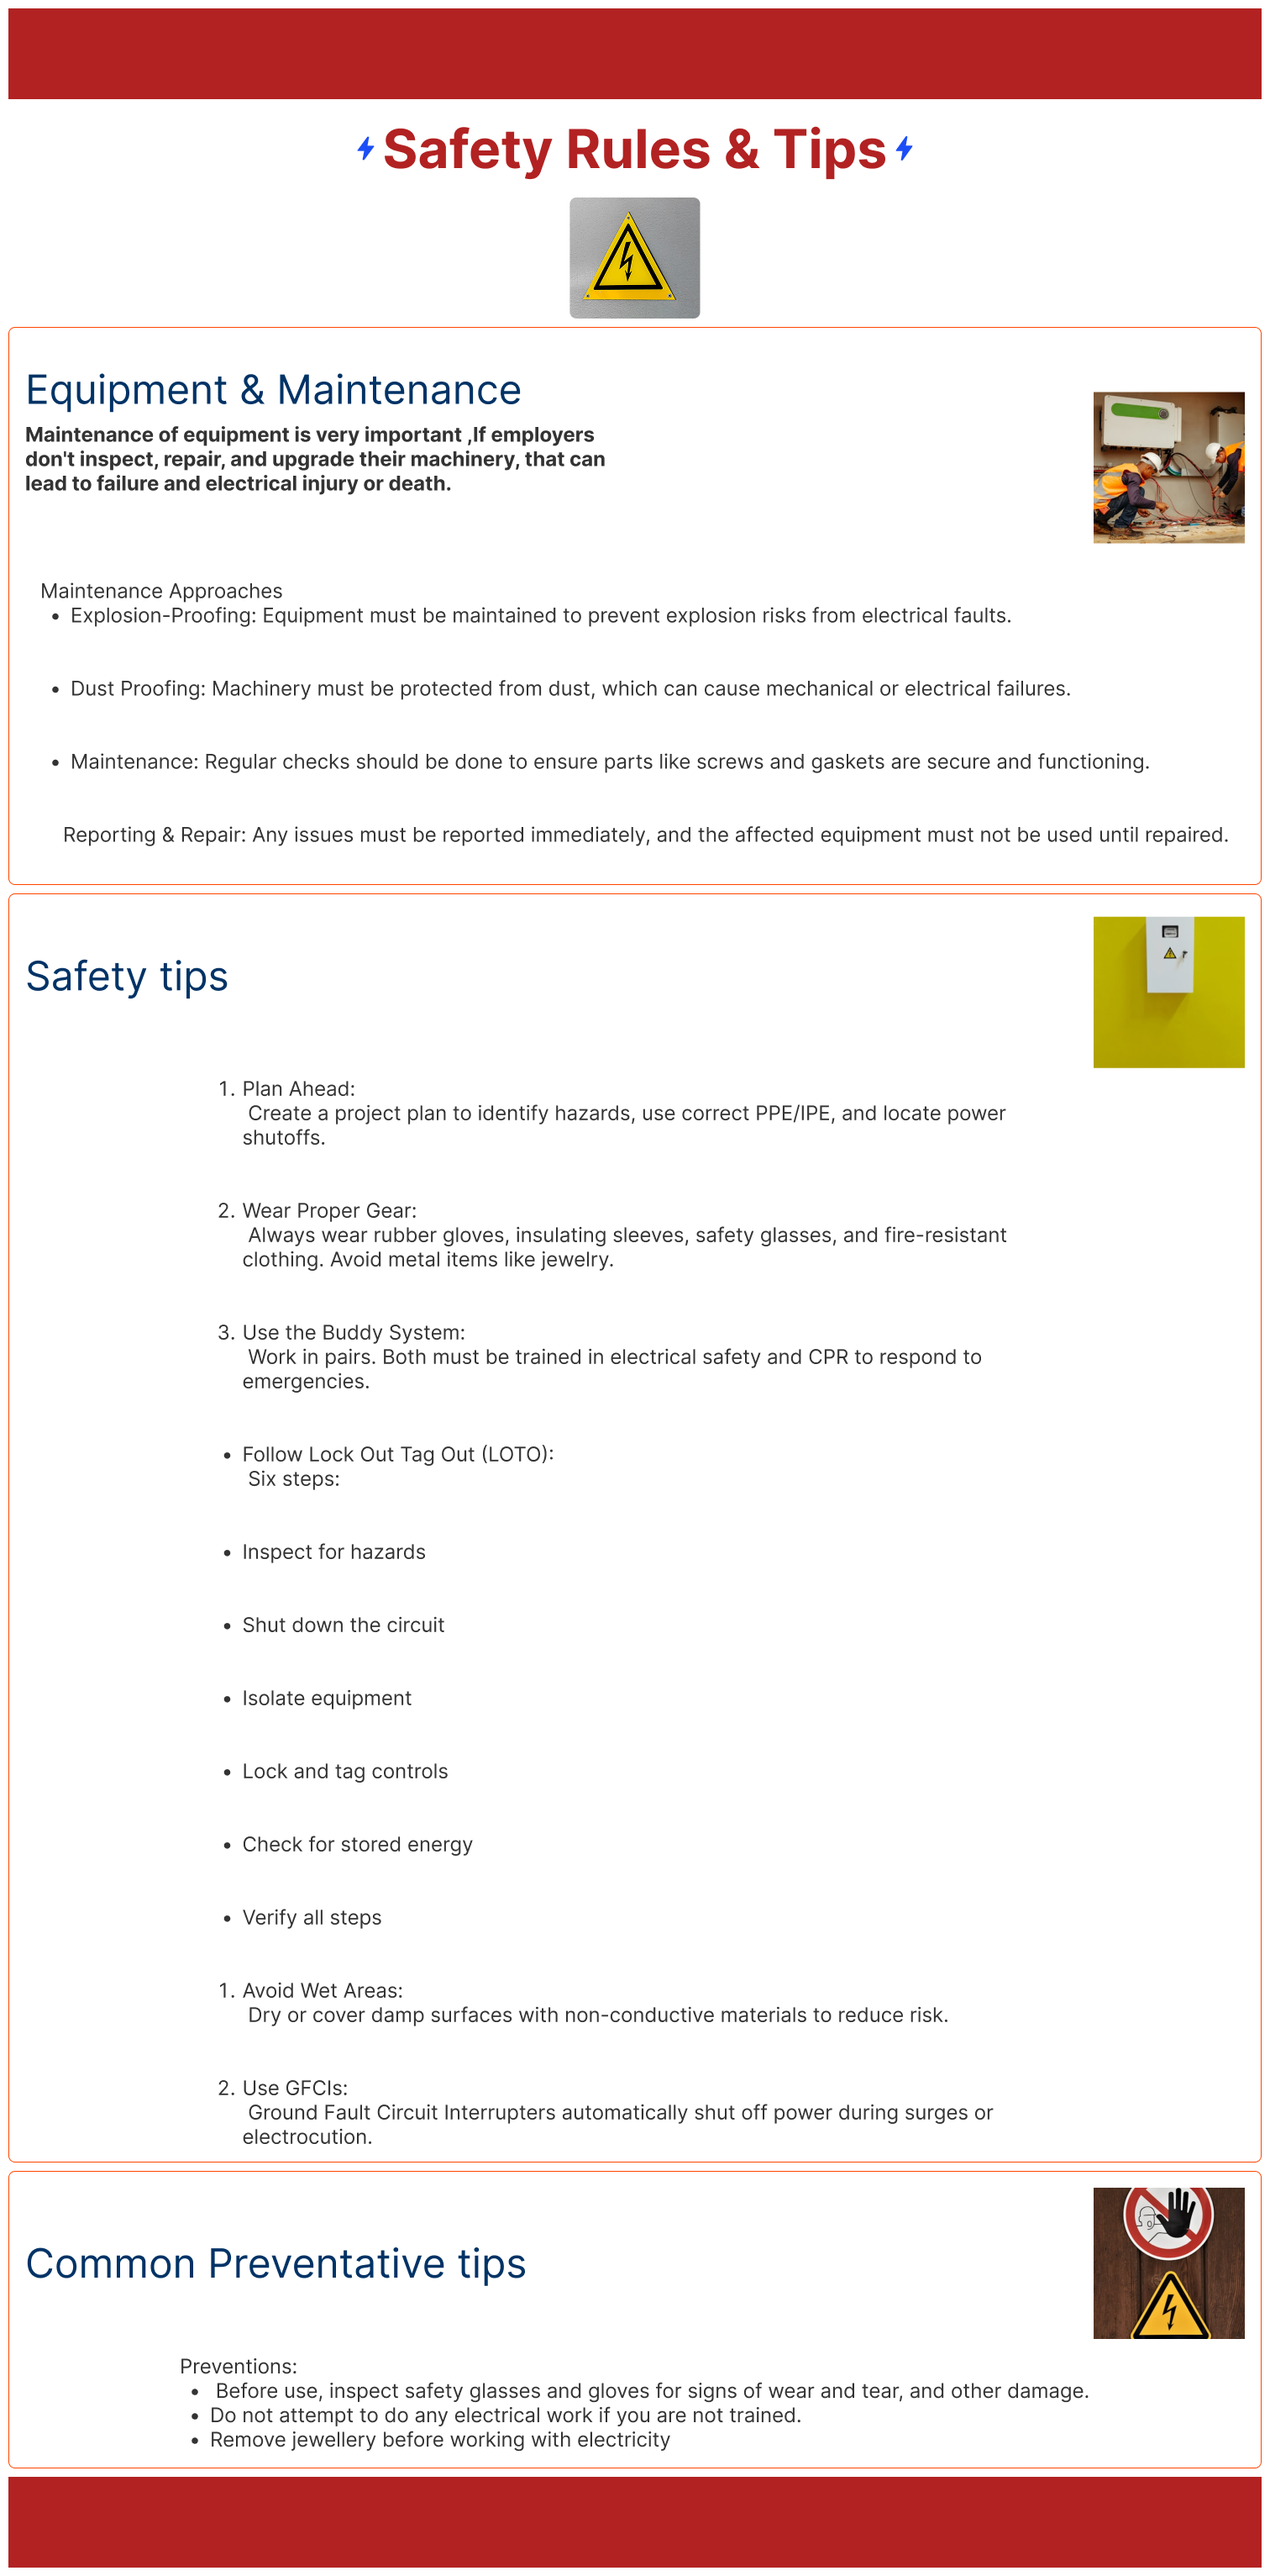
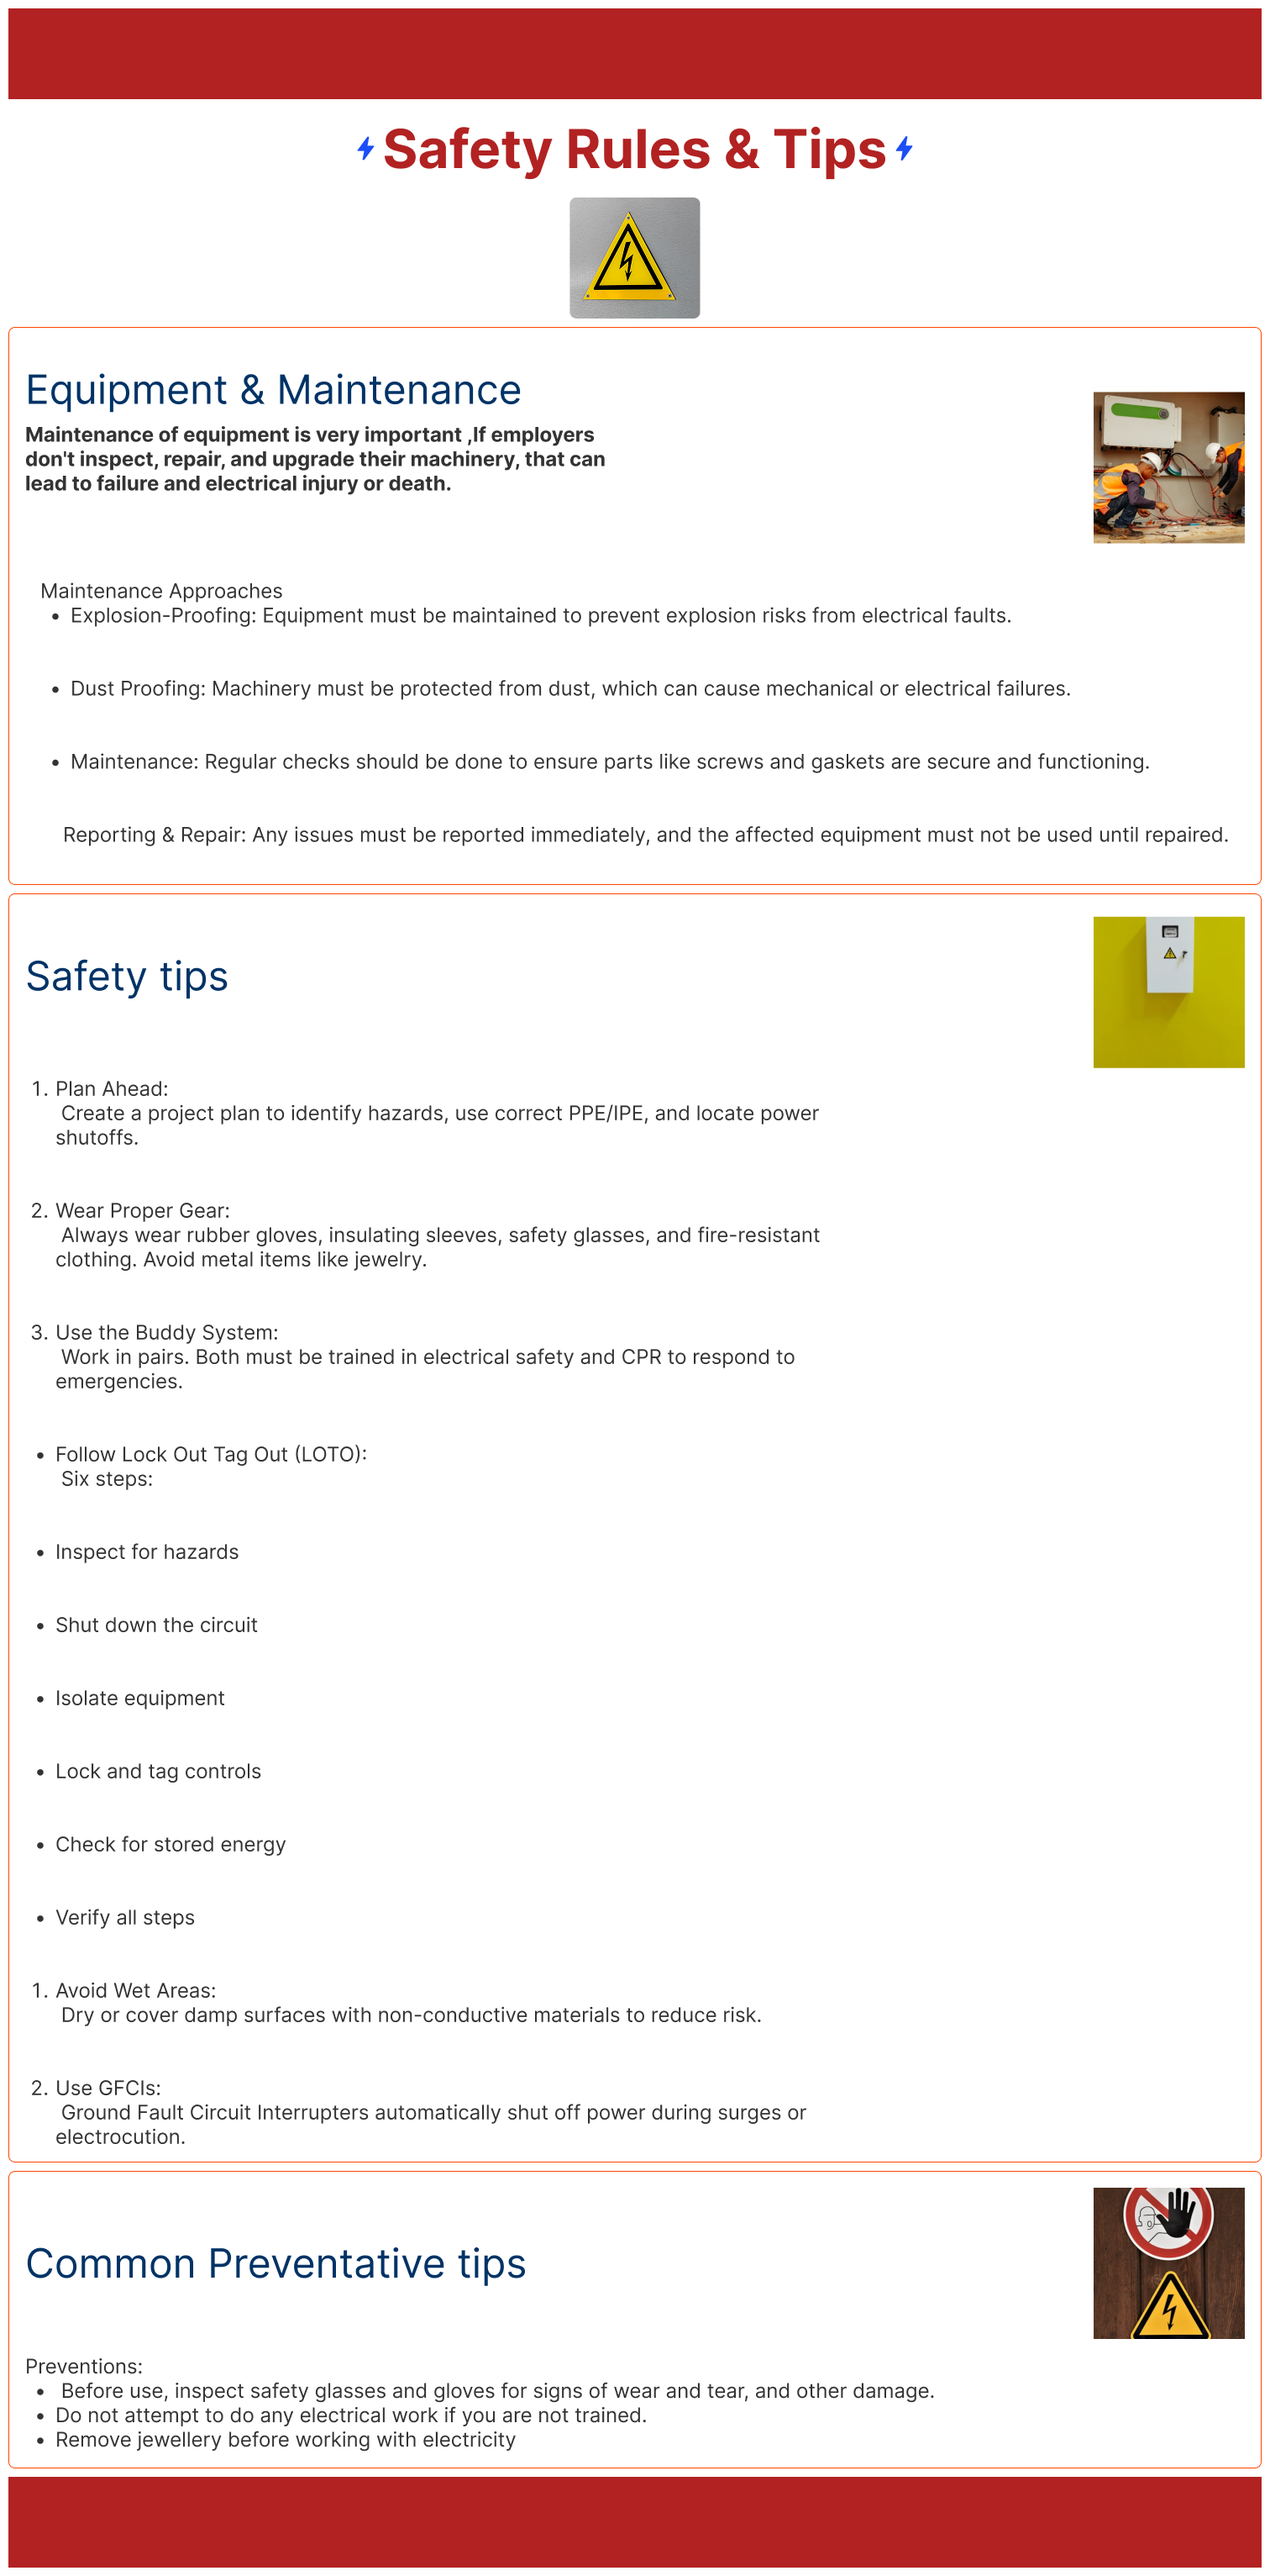
feature :done with layout

diff --git a/index.html b/index.html
@@ -1,0 +1,83 @@
+<!DOCTYPE html>
+<html lang="en">
+<head>
+    <meta charset="UTF-8">
+    <meta name="viewport" content="width=device-width, initial-scale=1.0">
+    <title>Document</title>
+</head>
+<body>
+    <header>
+        <div>
+            <h1>Safety Rules tips</h1>
+            <img src="" alt="">
+        </div>
+    </header>
+    <main>
+        <!--Equipment section-->
+        <section>
+            <div>
+                <div>
+                    <h2>Equipment & Maintenance</h2>
+                    <p>Maintenance of equipment is very important ,If employers <br> don't inspect, repair, and upgrade their machinery, that can <br> lead to failure and electrical injury or death.</p>
+                </div>
+                <img src="" alt="">
+            </div>
+            <p></p>
+            <ul>
+                <li>Explosion-Proofing: Equipment must be maintained to prevent explosion risks from electrical faults.</li>
+                <li>Dust Proofing: Machinery must be protected from dust, which can cause mechanical or electrical failures.</li>
+                <li>Maintenance: Regular checks should be done to ensure parts like screws and gaskets are secure and functioning.</li>
+                <li>Reporting & Repair: Any issues must be reported immediately, and the affected equipment must not be used until repaired.</li>
+            </ul>
+        </section>
+
+        <!--Safety tips section-->
+        <section>
+            <div>
+                <div>
+                    <h2>Safety Tips</h2>
+                </div>
+                <img src="" alt="">
+            <ol>
+                <li>Plan Ahead:
+ Create a project plan to identify hazards, use correct PPE/IPE, and locate power shutoffs.</li>
+                <li>Wear Proper Gear:
+ Always wear rubber gloves, insulating sleeves, safety glasses, and fire-resistant clothing. Avoid metal items like jewelry.</li>
+                <li>Use the Buddy System:
+ Work in pairs. Both must be trained in electrical safety and CPR to respond to emergencies.
+                <p>Follow Lock Out Tag Out (LOTO):
+ Six steps:</p>
+                <ul>
+                    <li>Inspect for hazards</li>
+                    <li>Shut down the circuit</li>
+                    <li>Isolate equipment</li>
+                    <li>Lock and tag controls</li>
+                    <li>Check for stored energy</li>
+                   <li>Verify all steps</li>
+                </ul>
+</li>
+                
+            </ol>
+        </section>
+
+        <!--common preventative tips section-->
+        <section>
+            <div>
+                <div>
+                    <h2>Common Electrical Preventions.</h2>
+                </div>
+                <img src="" alt="">
+            </div>
+            <p>Preventions: </p>
+            <ul>
+                <li>Before use, inspect safety glasses and gloves for signs of wear and tear, and other damage.</li>
+                <li>Do not attempt to do any electrical work if you are not trained.</li>
+                <li>Remove jewellery before working with electricity</li>
+            </ul>
+        </section>
+    </main>
+    <footer>
+        <div></div>
+    </footer>
+</body>
+</html>

diff --git a/styles.css b/styles.css
@@ -1,0 +1,4 @@
+:root{
+    /*colors*/
+    --title-color: #B22222
+}
